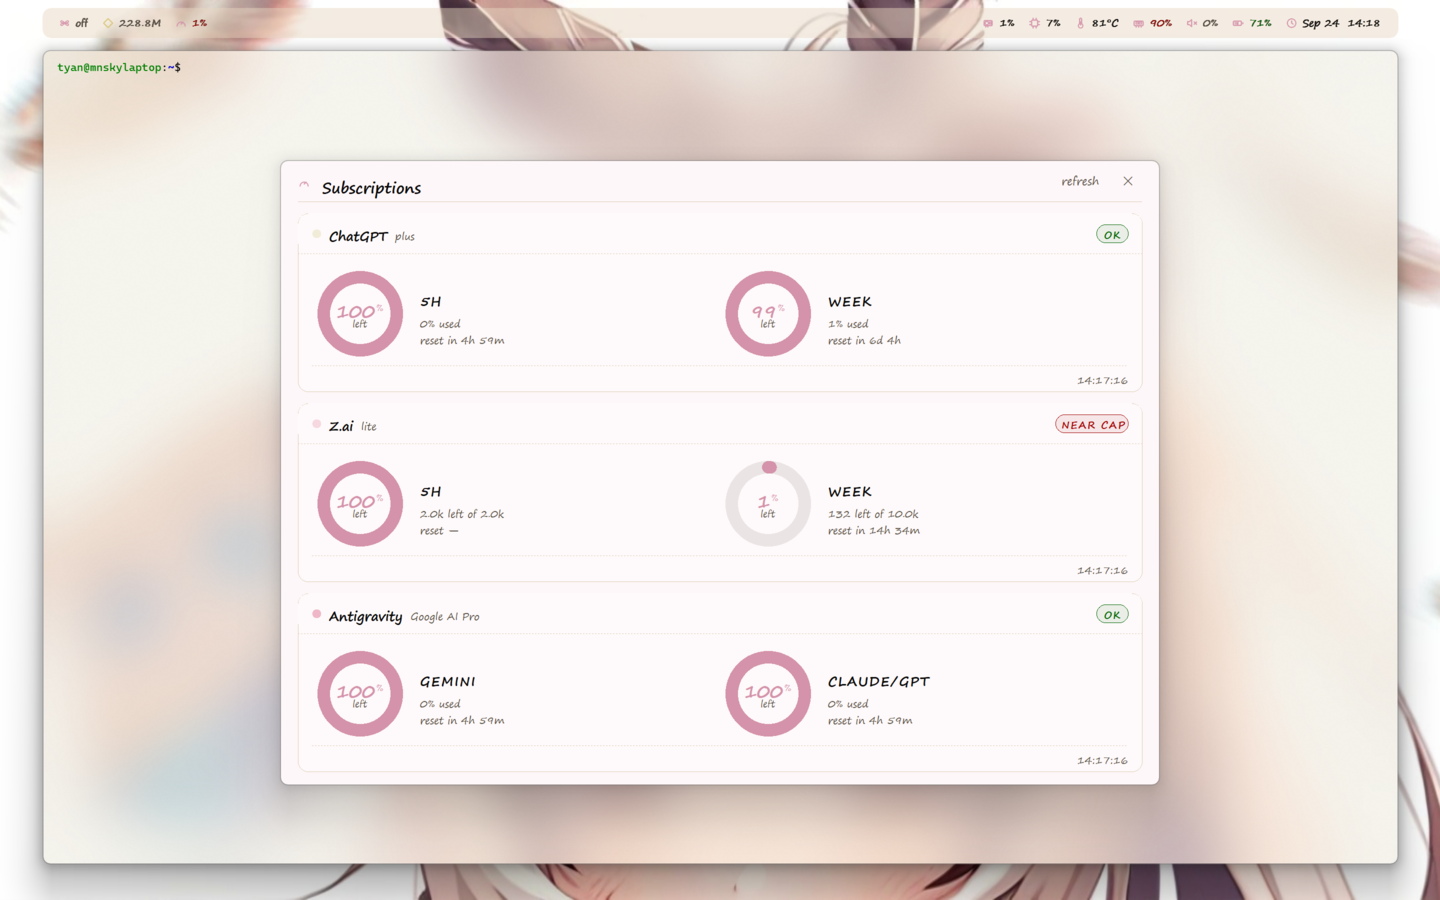
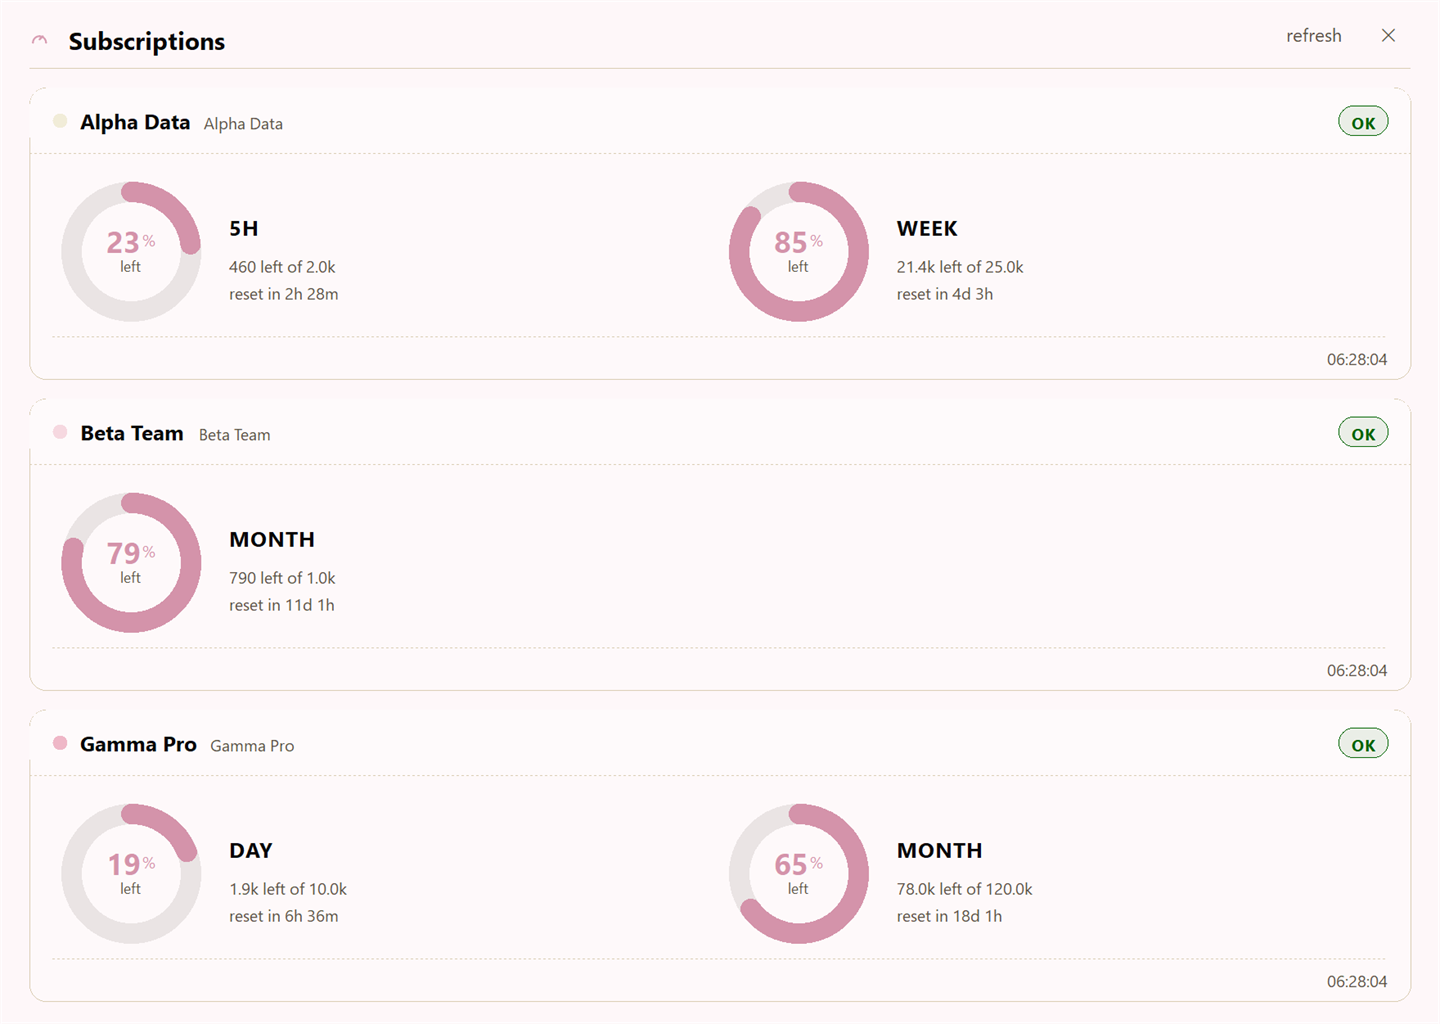
Depersonalize the repo for public release: neutral comments, regenerated screenshots, terminal-title probe fix
- rewrite the 20 personal-attribution comments in native/src to neutral
  phrasing (every fact - counts, dates, mechanisms - kept verbatim)
- version.rc CompanyName "mnsky" -> "chocobar" (exe resource identity)
- regenerate docs/img screenshots from a neutral rig: synthetic JSONL token
  store (public harness + model names), canned localhost quota endpoints,
  no personal data, no mascot in frame
- native/README: drop the machine-specific "on this machine" claim
- portable_regression: extend the template neutrality denylist with
  captain/crewmate/remielle so a re-introduction fails the test
- fix: the generic terminal probe returned the FIRST window of each class
  and never applied the configured terminal.title substring, so a bar with
  terminal.title set could attach to the wrong same-class terminal (it
  enumerated WT windows and picked one unrelated to the title filter)
- bump 1.2.5 -> 1.2.6 (version.h, package.json, package-lock.json)

diff --git a/scripts/portable_regression.js b/scripts/portable_regression.js
@@ -70,7 +70,7 @@ function check(name, ok, detail) {
     check('template: pet chip and subs board ship off',
       !!(mod.pet && mod.pet.enabled === false) && !!(tpl.subs && tpl.subs.enabled === false));
     check('template: no personal identifiers in the template',
-      !/tyanw|mnsky|firstmate/i.test(decode(m[1])));
+      !/tyanw|mnsky|firstmate|captain|crewmate|remielle/i.test(decode(m[1])));
   }
 }
 

diff --git a/native/src/p_ui.c b/native/src/p_ui.c
@@ -209,7 +209,7 @@ static int initRender(HWND hwnd) {
 // is behind. Calling DwmExtendFrameIntoClientArea + DWMWA_SYSTEMBACKDROP_TYPE
 // here (the old tray-Reload path) made DWM composite its blurred backdrop
 // material behind the layered surface, which read as the tint going stale and
-// solid - the captain's "acrylic is gone after reload" report. backdrop=solid
+// solid - a "acrylic is gone after reload" bug report. backdrop=solid
 // is honoured where it belongs: in paint, via the opaque bgA.
 
 // --------------------------------------------------------- chip building ----
@@ -471,7 +471,7 @@ static int g_tokensTick = 0;
 #define DASH_MAX_MODELS 64
 #define DASH_MAX_DAYS 190
 // displayed by-model rows (Electron capped at 7; this store has 13 models and
-// the captain asked for the space to be used, so the table reaches further)
+// a request asked for the space to be used, so the table reaches further)
 #define DASH_MODEL_ROWS 13
 // token-cache record fields kept separately: the Electron dash shows the
 // input/output/cache R/cache W/calls table columns, not one lumped sum
@@ -1501,8 +1501,15 @@ static HWND findTerminalByProbe(void) {
         L"VirtualConsoleClass", L"mintty"
     };
     for (int i = 0; i < 4; i++) {
-        HWND h = FindWindowW(classes[i], NULL);
-        if (h && h != g_bar) return h;
+        HWND h = NULL;
+        for (;;) {
+            h = FindWindowExW(NULL, h, classes[i], NULL);
+            if (!h) break;
+            // isTerminalHwnd applies the configured title substring too - the
+            // generic path used to return the FIRST window of each class, so a
+            // terminal.title filter only ever took effect with a className
+            if (isTerminalHwnd(h)) return h;
+        }
     }
     return NULL;
 }
@@ -1520,9 +1527,9 @@ static void hideBar(void) {
 // fight forever: every follow tick each one re-inserts its bar against the
 // shared terminal. Measured 2026-09-28 (two test builds on one dev shell):
 // the window directly above the terminal alternated between the two pids on
-// consecutive samples, ~20 z-order mutations a second around the window the
-// captain is typing in - the same interleaving his z-order anomaly log caught
-// from chocobar + chocobar-v110. Evict with WM_CLOSE: no chocobar build
+// consecutive samples, ~20 z-order mutations a second around the window in
+// use - the same interleaving a z-order anomaly log caught from two bar
+// builds running at once. Evict with WM_CLOSE: no chocobar build
 // handles WM_CLOSE, so DefWindowProc destroys the window and WM_DESTROY posts
 // the quit. A sibling owned by a DIFFERENT terminal is left alone.
 //
@@ -1665,9 +1672,9 @@ static void followTick(void) {
 
     // Enforce the no-topmost contract on the followed terminal. The shell's
     // stuck-topmost race (microsoft/terminal#16476 - it acquires and RETAINS
-    // HWND_TOPMOST around login, new-window churn and the Win+D repro; on this
-    // machine the always-topmost desktop mascot arms it permanently) drops the
-    // terminal into the TOPMOST band, whereupon every Win+N activation lands
+    // HWND_TOPMOST around login, new-window churn and the Win+D repro; any
+    // permanently-always-on-top window on the desktop arms it continuously)
+    // drops the terminal into the TOPMOST band, whereupon every Win+N activation lands
     // beneath it ("opens behind the terminal"), and this bar - pinned right
     // after the terminal in z - is dragged up with it, burying unrelated
     // foreground apps (the zorder-watch.log Z-ANOMALY lines caught exactly
@@ -2800,7 +2807,7 @@ static void paintDash(HWND hwnd) {
                 // ink ~11 CSS px below the draw origin, so the old fixed
                 // offsets (15/11/6) left the number 3.5 CSS px low and the
                 // caption dragged the pair lower still (measured +6.5 CSS off
-                // centre in the captain's screenshot)
+                // centre in a screenshot)
                 dashStr(dc, cx0, cyc - DX(18.5), pctS, t.pinkDeep, fPct);
                 if (!unk) dashStr(dc, cx0 + nw + DX(1), cyc - DX(14.5), L"%", t.pinkDeep, fS10);
                 dashStr(dc, kx + (pieD - dashStrW(dc, L"left", fS9)) / 2, cyc + DX(2.5), L"left", t.dim, fS9);
@@ -3106,7 +3113,7 @@ static void dashToggle(int type) {
         if (th2 > dashMaxH()) th2 = dashMaxH();
         // HWND_TOP raises the board above the terminal and every other normal
         // window; SWP_NOACTIVATE keeps the keyboard with the terminal. Both are
-        // needed - SetForegroundWindow alone stole the captain's keystrokes,
+        // needed - SetForegroundWindow alone stole the user's keystrokes,
         // and SW_SHOWNA alone left the board sunk behind his windows.
         SetWindowPos(g_dash, HWND_TOP, (tsw - tw) / 2, (dashMaxH() + 40 - th2) / 2, tw, th2, SWP_NOACTIVATE);
         InvalidateRect(g_dash, NULL, FALSE);
@@ -3128,17 +3135,17 @@ static void dashToggle(int type) {
     RegisterClassW(&wc);
     g_dashType = type;
     // TOOLWINDOW: the dashboard must NOT put a button in the taskbar (the
-    // captain's ask - the blank default icon there read as a second app).
+    // design request - the blank default icon there read as a second app).
     // Tool windows still take the foreground normally, so clicking the board
     // keeps working; it just stays out of the taskbar and Alt-Tab.
     // WS_VISIBLE is deliberately absent: the first paint (and the content-fit
     // resize it triggers) happens while the window is still hidden, so the
-    // captain sees ONE window at its final size instead of a board that grows
+    // user sees ONE window at its final size instead of a board that grows
     // into place.
     // OWNED by the bar (the bar is itself owned by the followed terminal), with
     // NO WS_EX_TOOLWINDOW. Two reasons, both load-bearing:
     //   1. An owned popup never gets a taskbar button or an Alt-Tab entry - the
-    //      captain's ask - so hiding the taskbar icon no longer costs anything.
+    //      design request - so hiding the taskbar icon no longer costs anything.
     //   2. WS_EX_TOOLWINDOW made Windows SKIP this window when choosing the next
     //      window to activate: the moment the window above the board was
     //      minimized or closed, activation fell through to the terminal and
@@ -3157,10 +3164,10 @@ static void dashToggle(int type) {
     InvalidateRect(g_dash, NULL, FALSE);
     UpdateWindow(g_dash); // forces the WM_PAINT -> paint + fit, off screen
     // Raise the board to the top of the z-order WITHOUT activating it.
-    // HWND_TOP lifts it above the terminal and every other normal window (the
-    // captain's "it sinks behind my windows"), while SWP_NOACTIVATE keeps the
-    // keyboard where he was typing - the old SetForegroundWindow here made his
-    // next keystrokes (" like") land on the dashboard instead of his editor.
+    // HWND_TOP lifts it above the terminal and every other normal window (an
+    // "it sinks behind my windows" bug report), while SWP_NOACTIVATE keeps the
+    // keyboard where the user was typing - the old SetForegroundWindow here
+    // made the next keystrokes land on the dashboard instead of the editor.
     // The bar stays topmost and above the board; a click on the board still
     // activates it (the buttons and title-drag need that), and Esc closes it.
     SetWindowPos(g_dash, HWND_TOP, 0, 0, 0, 0,
@@ -3444,8 +3451,8 @@ static int subsChipRotated(wchar_t *txt, int cb, wchar_t *tip, int tipCb) {
     if (k >= wn) k = 0;
     int rem = w[k].rem;
     // The chip stays a percentage (it is a meter); the absolute credit
-    // count belongs on the board rows and in this tooltip, which is where the
-    // captain asked to see it.
+    // count belongs on the board rows and in this tooltip, which is the
+    // requested home for it.
     int hasNum = (w[k].used >= 0 && w[k].total > 0);
     long long left = hasNum ? ((long long)w[k].total - w[k].used) : 0;
     if (left < 0) left = 0;
@@ -3513,7 +3520,7 @@ static void autoStartSet(int on) {
 
 // Menu width: the widest row label + padding + room for the autostart check
 // at the RIGHT edge. A fixed DX(210) left the drawer wider than its content
-// (the captain's "a little bit too big"); this tracks the labels instead.
+// (a "a little bit too big" report); this tracks the labels instead.
 static int menuWidthPx(void) {
     static int cached = 0;
     static double cachedScale = 0;
@@ -4078,9 +4085,9 @@ int WINAPI wWinMain(HINSTANCE hInst, HINSTANCE hPrev, PWSTR cmd, int show) {
 
     // NO WS_EX_TOOLWINDOW and NO WS_EX_TOPMOST. A tool window sits in a
     // band above ordinary windows, so it would keep floating over unrelated
-    // windows no matter where SetWindowPos put it (the captain's screenshot
-    // showed the bar painted across a Brave window while its terminal sat
-    // behind it). Making the bar an OWNED window of the terminal instead keeps
+    // windows no matter where SetWindowPos put it (a user screenshot showed
+    // the bar painted across a browser window while its terminal sat behind
+    // it). Making the bar an OWNED window of the terminal instead keeps
     // it out of the taskbar/Alt+Tab and pins it in the terminal's own band.
     g_bar = CreateWindowExW(
         WS_EX_NOACTIVATE | WS_EX_LAYERED,

diff --git a/native/src/p_subs.c b/native/src/p_subs.c
@@ -683,7 +683,7 @@ static int subsAgyReadAuth(const Config *cfg, int idx, AgyAuth *out, wchar_t *au
 
 // Best-effort persist of a rotated token into the pi auth store. Targeted
 // text surgery inside the "antigravity" object only - any doubt aborts the
-// write (a corrupted auth.json would break the captain's tooling).
+// write (a corrupted auth.json would break the user's tooling).
 static void subsAgySaveAuth(const wchar_t *path, const wchar_t *access, const wchar_t *refresh,
                             long long expiresMs) {
     if (!path || !*path) return;
@@ -1572,8 +1572,8 @@ static volatile unsigned long long g_subsFetchedTick = 0; // cycle end (GetTickC
 static volatile long long g_subsFetchedEpoch = 0;
 
 // Local wall clock in the frame dashFmtTime renders (it reinterprets its input
-// as UTC), so the board footer shows the captain's local time. subsNowMs() is a
-// TRUE UTC epoch and would print UTC - 8 hours off in HKT.
+// as UTC), so the board footer shows the user's local time. subsNowMs() is a
+// TRUE UTC epoch and would print UTC - hours off in a UTC+8 timezone.
 static long long subsLocalStampMs(void) {
     SYSTEMTIME now; GetLocalTime(&now);
     FILETIME ft;
@@ -1627,8 +1627,8 @@ static DWORD WINAPI subsThreadProc(LPVOID lp) {
             // Fan the enabled providers out over their own threads. Every fetch
             // is independent (each writes only its own slot through the locked
             // setters), so the wall time of a cycle drops from the SUM of the
-            // providers to the slowest one - 5.9s -> 2.6s for the captain's
-            // three providers at this step alone. The whole cycle measured
+            // providers to the slowest one - 5.9s -> 2.6s for three
+            // providers at this step alone. The whole cycle measured
             // 1.9s once the antigravity model calls and loadCodeAssist
             // overlapped those fetches too (the perf commit, 3c533f2).
             HANDLE th[MAX_SUBS]; SubsJob jobs[MAX_SUBS]; int nth = 0;

diff --git a/native/src/p_tokens.c b/native/src/p_tokens.c
@@ -2,8 +2,8 @@
 //
 // WHY: the bar used to read ONLY the Electron app's ~/.wizbar/token-cache.json.
 // With the Electron bar gone nothing rewrites that file, so every number
-// froze at the moment it died (the captain's "token dashboard is stale, still
-// 0" - the cache's last record was 2h old and local midnight had rolled over).
+// froze at the moment it died (a "token dashboard is stale, still 0" report -
+// the cache's last record was 2h old and local midnight had rolled over).
 //
 // This file reads whatever session stores the user declares in
 // tokens.sources[] - any harness that logs per-message usage as JSONL, with the
@@ -101,7 +101,7 @@ static void tokPendPush(const char *app, int alen, long long ts,
 static void tokPendClear(void) { g_tokPendN = 0; }
 
 // The arena only ever grows, and a cold seed re-read sizes it for every record
-// the Electron cache holds (10k+ on the captain's box). Hand it back once a
+// the Electron cache holds (10k+ on a large store). Hand it back once a
 // scan used a small fraction of that, so the bar's RSS tracks the warm steady
 // state instead of the one-time peak.
 static void tokPendShrink(void) {

diff --git a/native/src/p_icons.c b/native/src/p_icons.c
@@ -302,8 +302,8 @@ static SvgFlat g_flat[SVG_COUNT][SVG_MAXPARTS];
 static int g_flatN[SVG_COUNT];
 
 // ---- config-defined icons -------------------------------------------------
-// The bar's own icons are a static table, but the captain wants NEW icons from
-// the config (the buttons he can add by name). A user icon keeps the same
+// The bar's own icons are a static table, but NEW icons are wanted from the
+// config (the buttons a user can add by name). A user icon keeps the same
 // flattened-path representation, so it renders through the identical GDI+ AA
 // path and the same per-icon DIB cache - only the id is shifted past SVG_COUNT.
 #define SVG_USER_MAX 16

diff --git a/native/src/chocobar.c b/native/src/chocobar.c
@@ -675,7 +675,7 @@ static void parseConfigInto(Config *c, const char *js, jsmntok_t *t, int root) {
     lstrcpynW(c->heatmap[0], L"#F1ECD8", 12); lstrcpynW(c->heatmap[1], L"#F6D8E0", 12);
     lstrcpynW(c->heatmap[2], L"#EFB7C7", 12); lstrcpynW(c->heatmap[3], L"#E28FB0", 12);
     lstrcpynW(c->heatmap[4], L"#C95E8F", 12);
-    // sized to the captain's 1440x900 CSS desktop: wide enough that the two
+    // sized to a 1440x900 CSS desktop: wide enough that the two
     // tables are not squeezed into half-width columns, tall enough that the
     // content-fit never has to grow it past the screen
     c->dashW = 900; c->dashH = 520; c->subsW = 880; c->subsH = 580;

diff --git a/native/src/version.h b/native/src/version.h
@@ -6,7 +6,7 @@
 
 #define CB_VER_MAJOR 1
 #define CB_VER_MINOR 2
-#define CB_VER_PATCH 5
-#define CB_VER_STR   "1.2.5"
+#define CB_VER_PATCH 6
+#define CB_VER_STR   "1.2.6"
 
 #endif

diff --git a/native/README.md b/native/README.md
@@ -49,10 +49,10 @@ off-screen at (-2000,-2000) and follows the foreground terminal once found.
 ## Sharp edges (learned the hard way - do not "simplify" these)
 
 - **Render path is GDI + UpdateLayeredWindow** (deliberate). The original
-  D2D-over-DComp-swapchain pipeline is dead on this machine: with
-  `D2D1_BITMAP_OPTIONS_TARGET` alone `CreateBitmapFromDxgiSurface` fails
-  E_INVALIDARG on EVERY frame; adding `CANNOT_DRAW` makes it "succeed" but
-  every EndDraw returns D2DERR_WRONG_STATE. Do not resurrect that design.
+  D2D-over-DComp-swapchain pipeline is dead: with `D2D1_BITMAP_OPTIONS_TARGET`
+  alone `CreateBitmapFromDxgiSurface` fails E_INVALIDARG on EVERY frame; adding
+  `CANNOT_DRAW` makes it "succeed" but every EndDraw returns
+  D2DERR_WRONG_STATE. Do not resurrect that design.
 - The window is `WS_EX_LAYERED`; content = a 32bpp top-down premultiplied
   DIB selected into a memory DC (tint at `backgroundAlpha`, chips drawn
   right-aligned with DrawTextW), handed to DWM via `UpdateLayeredWindow`
